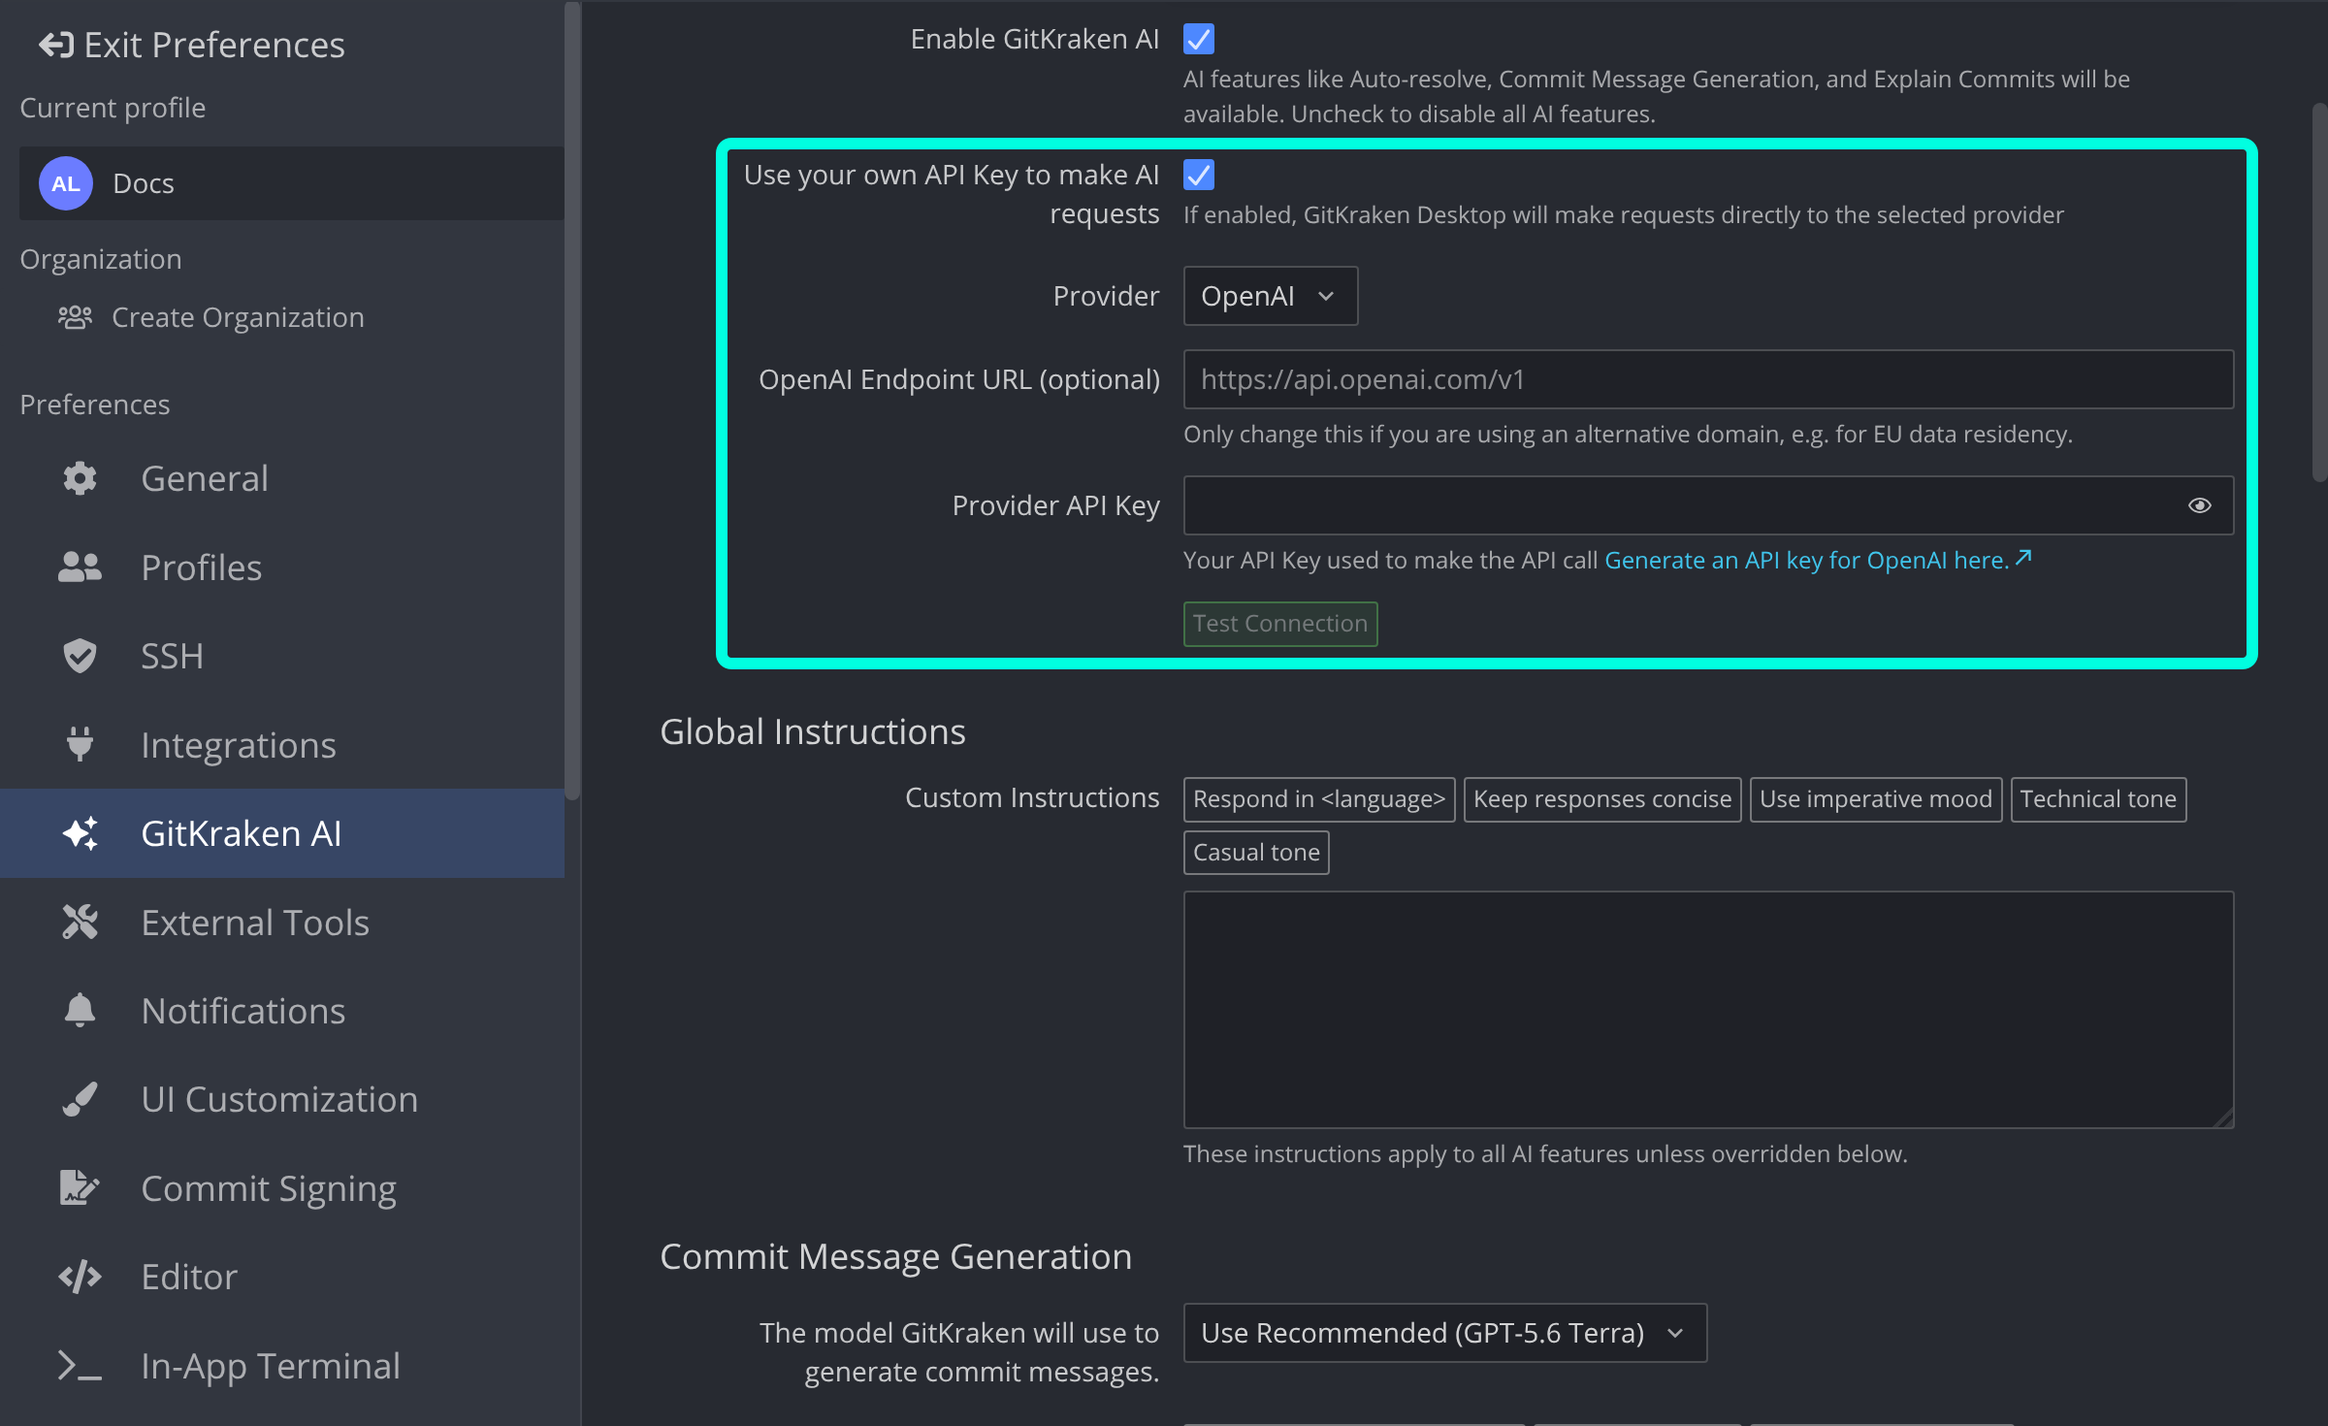
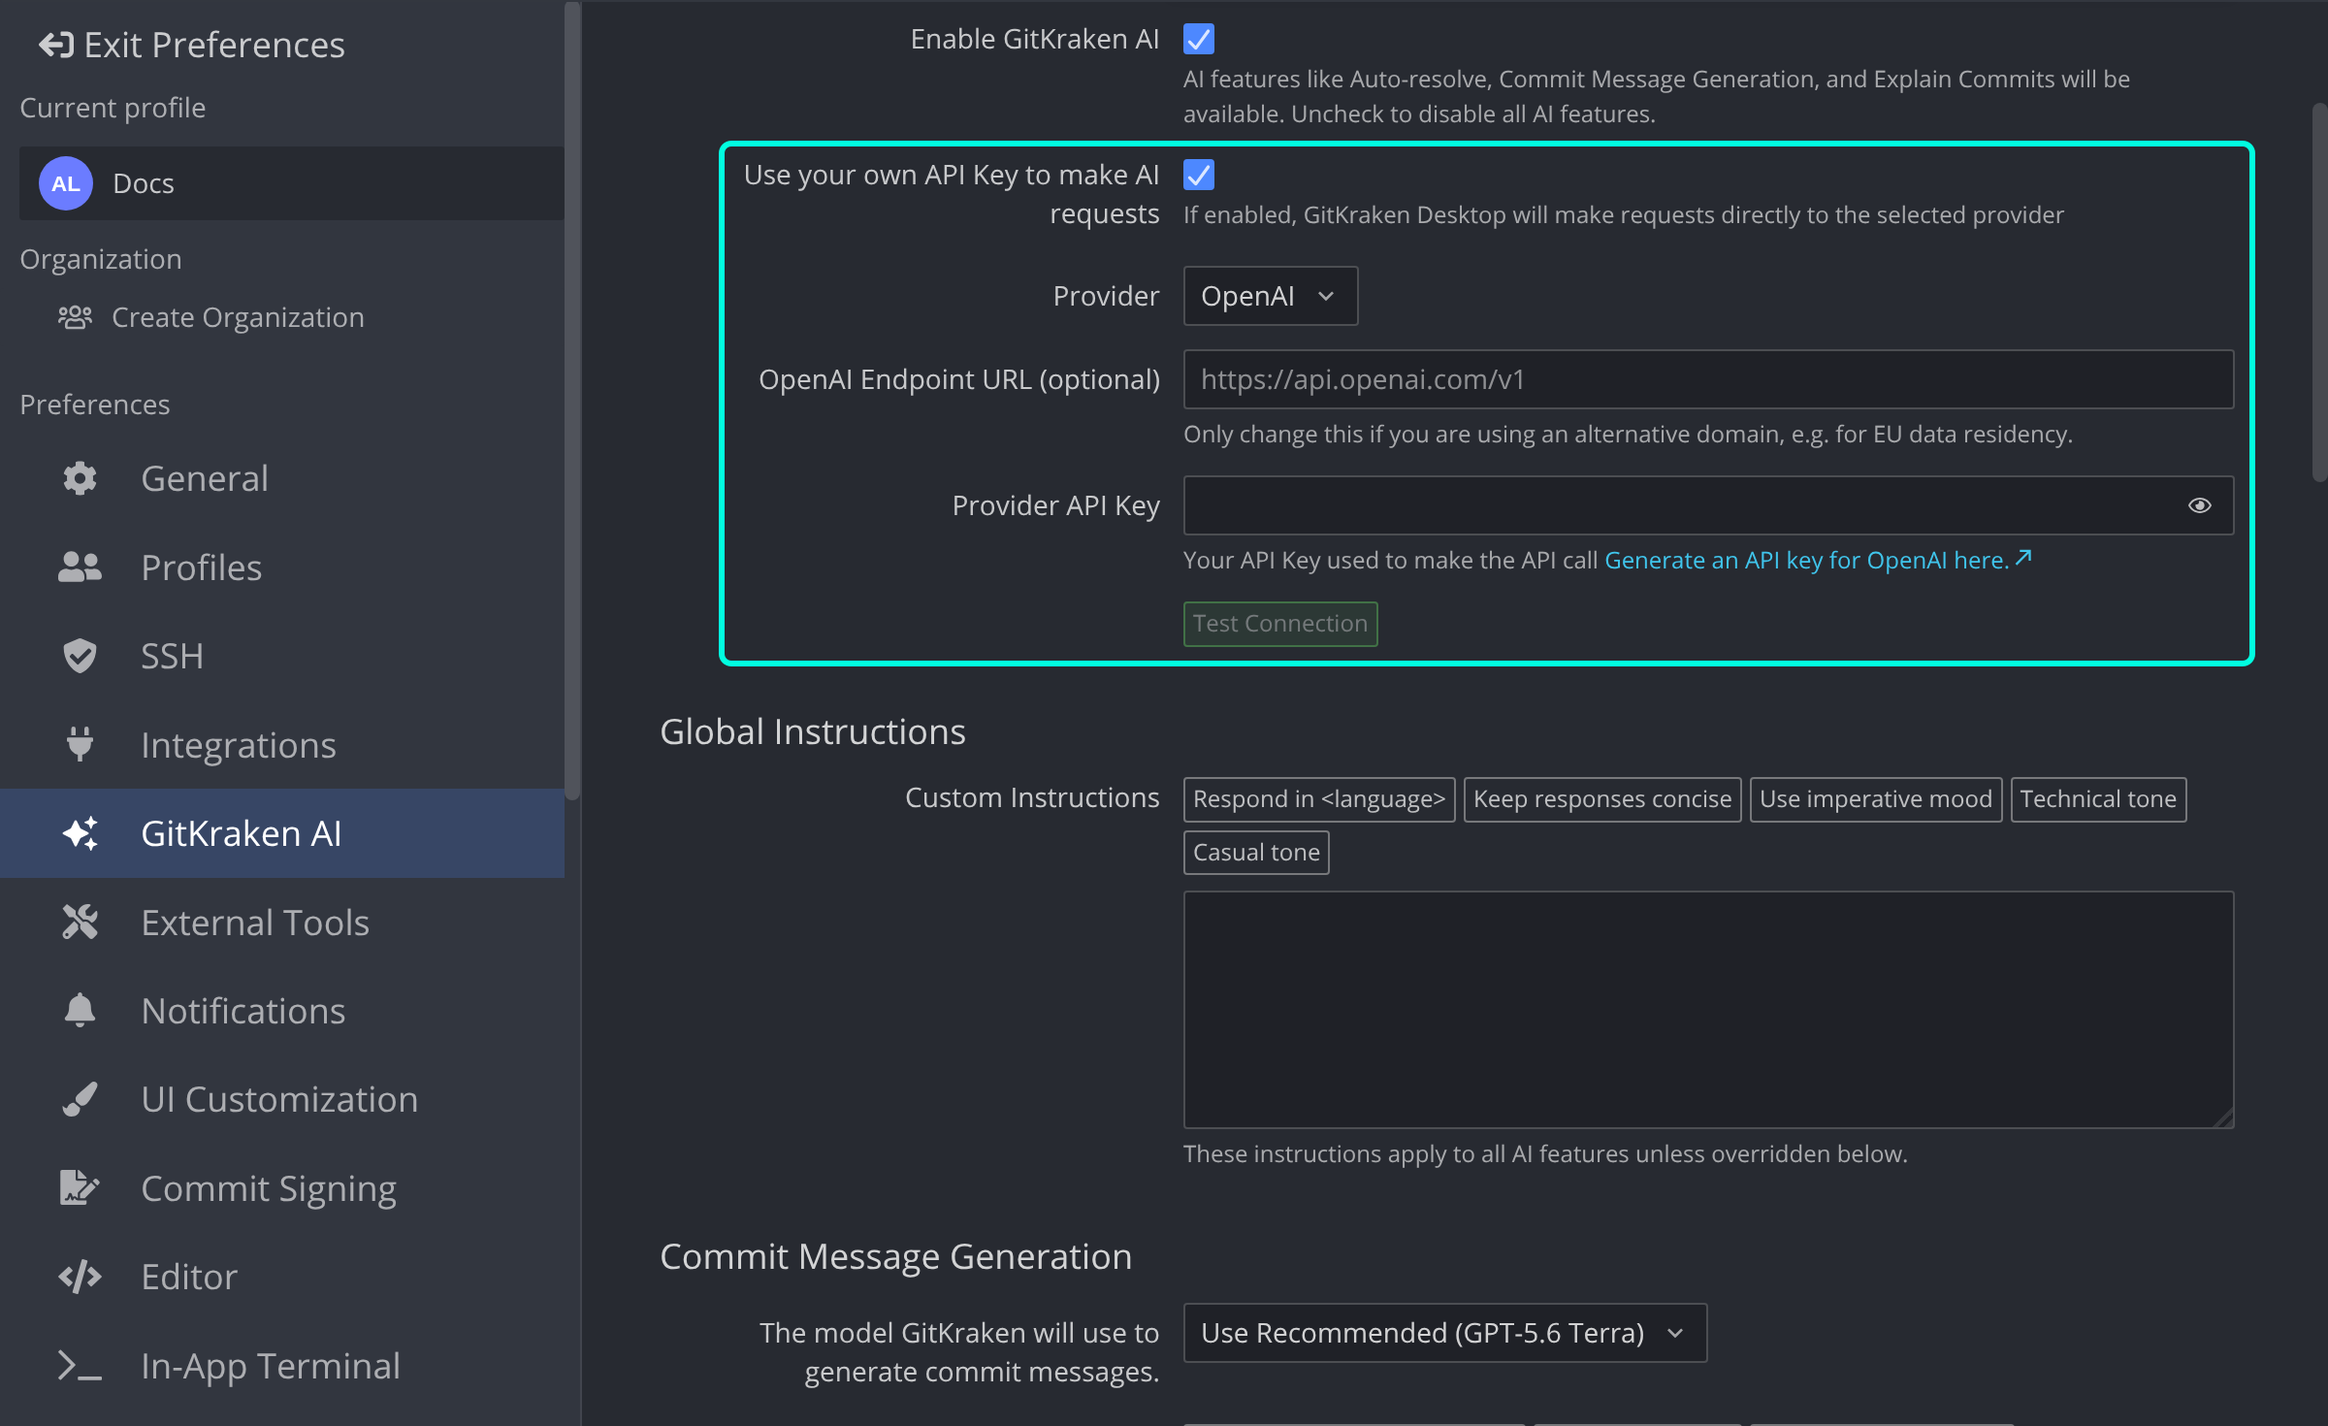
Recapture the annotated figures with 3 px rings that follow each control's corners
Per review: thinner rings (3 px) and corners matching the highlighted control.
The earlier ring restyle had smeared the borders of the controls it sat next to;
these are fresh captures.

Changed region(s): [[0.3125, 0.4592, 0.9688, 0.4898], [0.3125, 0.0918, 0.9688, 0.1224]]

diff --git a/gitkraken-desktop/common-issues.md b/gitkraken-desktop/common-issues.md
@@ -54,7 +54,7 @@ If GitKraken Desktop shows the wrong plan or no AI credits, check which account 
 ### My account shows Trial/Free/Community despite being a paid customer
 In GitKraken Desktop, click your profile icon and check the name and email address under **Account**. If it is the wrong account, click **Sign Out**, then sign in again with the account linked to your subscription:
 <figure class='figure center'>
-  <img alt="The GitKraken Desktop profile and account menu, signed in: Current profile with the profile, commit signature and Manage profiles, then Account with the account name and email, Manage account, and Sign Out highlighted." src="/wp-content/uploads/gkd-profile-menu-sign-out-01-v3@2x.png" class="help-center-img img-bordered">
+  <img alt="The GitKraken Desktop profile and account menu, signed in: Current profile with the profile, commit signature and Manage profiles, then Account with the account name and email, Manage account, and Sign Out highlighted." src="/wp-content/uploads/gkd-profile-menu-sign-out-01-v4@2x.png" class="help-center-img img-bordered">
   <figcaption style="text-align: center; color: #888;">Ensure you are signed in with the email address linked to your subscription. Avoid using GitHub or Google login options if your subscription is tied to an email address.</figcaption>
 </figure>
 

diff --git a/gitkraken-desktop/tips.md b/gitkraken-desktop/tips.md
@@ -112,7 +112,7 @@ Before GitKraken Desktop applies the commits, you can reorder, squash, reword, o
 Connect GitKraken Desktop to [GitHub, GitLab, Bitbucket, and Azure DevOps](/gitkraken-desktop/integrations/) to work with your hosted repositories and pull requests.
 
 <figure class='figure center'>
-  <img src="/wp-content/uploads/connect-azure-devops-2025-v2@2x.png" class="help-center-img img-bordered" alt="Preferences > Integrations > Azure DevOps in GitKraken Desktop: the Azure DevOps card reads Not Connected with a Connect to Azure DevOps button, a Manage Integrations button sits at the top right, and below &quot;or&quot; are Host Domain and Personal Access Token fields with a Connect button.">
+  <img src="/wp-content/uploads/connect-azure-devops-2025-v3@2x.png" class="help-center-img img-bordered" alt="Preferences > Integrations > Azure DevOps in GitKraken Desktop: the Azure DevOps card reads Not Connected with a Connect to Azure DevOps button, a Manage Integrations button sits at the top right, and below &quot;or&quot; are Host Domain and Personal Access Token fields with a Connect button.">
   <figcaption style="text-align: center; color: #888;">Connect your Git provider to speed up repository access.</figcaption>
 </figure>
 

diff --git a/gitkraken-desktop/branching-and-merging.md b/gitkraken-desktop/branching-and-merging.md
@@ -152,7 +152,7 @@ To pin a branch:
 While a branch is pinned, a pin button appears in the **Graph** column header. Click it to jump to and select the pinned branch's latest commit. Hover over the button to see the **Jump to pinned branch** tooltip.
 
 <figure>
-  <img src="/wp-content/uploads/gkd-graph-jump-to-pinned-branch-01-v2@2x.png" class="help-center-img img-bordered" alt="The top of the Commit Graph with a branch pinned to the left: its highlighted label, feature/api…, carries a pin icon and its line is the leftmost in the graph. The highlighted thumbtack button in the GRAPH column header shows the tooltip &quot;Jump to pinned branch&quot;.">
+  <img src="/wp-content/uploads/gkd-graph-jump-to-pinned-branch-01-v3@2x.png" class="help-center-img img-bordered" alt="The top of the Commit Graph with a branch pinned to the left: its highlighted label, feature/api…, carries a pin icon and its line is the leftmost in the graph. The highlighted thumbtack button in the GRAPH column header shows the tooltip &quot;Jump to pinned branch&quot;.">
   <figcaption style="text-align:center; color:#888">Jump to the pinned branch from the Graph column header</figcaption>
 </figure>
 

diff --git a/gitkraken-desktop/faq.md b/gitkraken-desktop/faq.md
@@ -151,7 +151,7 @@ Launch GitKraken Desktop from a terminal to check for missing dependencies. See 
 Make sure you are signed in with the email address associated with your subscription. Click your profile icon and check the email address under **Account**. To use a different account, click **Sign Out**, then sign in with the right account.
 
 <figure class='figure center'>
-  <img src="/wp-content/uploads/gkd-profile-menu-sign-out-01-v3@2x.png" class="help-center-img img-bordered" alt="The GitKraken Desktop profile and account menu, signed in: Current profile with the profile, commit signature and Manage profiles, then Account with the account name and email, Manage account, and Sign Out highlighted.">
+  <img src="/wp-content/uploads/gkd-profile-menu-sign-out-01-v4@2x.png" class="help-center-img img-bordered" alt="The GitKraken Desktop profile and account menu, signed in: Current profile with the profile, commit signature and Manage profiles, then Account with the account name and email, Manage account, and Sign Out highlighted.">
   <figcaption style="text-align: center; color: #888;">Check your account and sign out from the profile menu.</figcaption>
 </figure>
 

diff --git a/gitkraken-desktop/interface.md b/gitkraken-desktop/interface.md
@@ -275,7 +275,7 @@ When you open 2 or more tabs from the same repository, such as the main reposito
 A group ends when fewer than 2 of its tabs are open. To stop grouping worktree tabs, go to <kbd>Preferences > UI Customization</kbd> and clear **Automatically group worktree tabs together**.
 
 <figure class='figure center'>
-    <img alt="The GitKraken Desktop tab bar with a Launchpad tab and a tab group holding the Playground2026 repository tab and its login-form and readme-typo worktree tabs. The dotted group handle on the group's left edge is highlighted." src="/wp-content/uploads/gkd-worktree-tab-groups-01-v2@2x.png" class="help-center-img img-bordered">
+    <img alt="The GitKraken Desktop tab bar with a Launchpad tab and a tab group holding the Playground2026 repository tab and its login-form and readme-typo worktree tabs. The dotted group handle on the group's left edge is highlighted." src="/wp-content/uploads/gkd-worktree-tab-groups-01-v3@2x.png" class="help-center-img img-bordered">
     <figcaption style="text-align: center; color: #888;">Tabs for a repository and its worktrees are grouped together.</figcaption>
 </figure>
 

diff --git a/gitkraken-desktop/azure-devops.md b/gitkraken-desktop/azure-devops.md
@@ -87,7 +87,7 @@ To authenticate with Azure DevOps:
 2. Choose **Azure DevOps** and click <button class='button button--success button--ui button--nolink'>Connect to Azure DevOps</button>.
 
 <figure>
-  <img alt="Preferences > Integrations > Azure DevOps in GitKraken Desktop: the Azure DevOps card reads Not Connected with a Connect to Azure DevOps button, a Manage Integrations button sits at the top right, and below &quot;or&quot; are Host Domain and Personal Access Token fields with a Connect button." src="/wp-content/uploads/connect-azure-devops-2025-v2@2x.png" class="help-center-img img-bordered">
+  <img alt="Preferences > Integrations > Azure DevOps in GitKraken Desktop: the Azure DevOps card reads Not Connected with a Connect to Azure DevOps button, a Manage Integrations button sits at the top right, and below &quot;or&quot; are Host Domain and Personal Access Token fields with a Connect button." src="/wp-content/uploads/connect-azure-devops-2025-v3@2x.png" class="help-center-img img-bordered">
   <figcaption style="color:#888; text-align:center">Connecting to Azure DevOps from GitKraken</figcaption>
 </figure>
 

diff --git a/gitkraken-desktop/gkd-gitkraken-ai.md b/gitkraken-desktop/gkd-gitkraken-ai.md
@@ -173,7 +173,7 @@ GitKraken AI explains in plain language what changed in the commits you select.
 2. Click **Explain commits** (or **Explain commit** for a single commit) in the top-right corner of the Commit Panel.
 
 <figure>
-<img src="/wp-content/uploads/gkd-ai-explain-commits-01-v2@2x.png" style="max-width: 66%; height: auto; margin: 0 auto;" class="help-center-img img-bordered" alt="The Commit Panel in GitKraken Desktop with three consecutive commits selected: the header reads 3 commits selected with an Explain commits button, followed by Viewing diff of 3 commits and the three commits." />
+<img src="/wp-content/uploads/gkd-ai-explain-commits-01-v3@2x.png" style="max-width: 66%; height: auto; margin: 0 auto;" class="help-center-img img-bordered" alt="The Commit Panel in GitKraken Desktop with three consecutive commits selected: the header reads 3 commits selected with an Explain commits button, followed by Viewing diff of 3 commits and the three commits." />
 <figcaption style="text-align: center; color: #888">Use the Explain button to trigger AI-generated summaries</figcaption>
 </figure>
 

diff --git a/gitkraken-desktop/github-issues.md b/gitkraken-desktop/github-issues.md
@@ -80,7 +80,7 @@ You can set up the integration from the ISSUES section in the Left Panel or from
 GitHub connects through your GitKraken account, so sign in to GitKraken Desktop first. In <kbd>Preferences > Integrations</kbd>, select <strong>GitHub</strong> and click <strong>Connect to GitHub</strong>.
 
 <figure>
-  <img src="/wp-content/uploads/connect-github-2025-v2@2x.png" class="help-center-img img-bordered" alt="Preferences > Integrations > GitHub in GitKraken Desktop: the GitHub card reads Not Connected with a Connect to GitHub button, and a Manage Integrations button sits at the top right of the pane.">
+  <img src="/wp-content/uploads/connect-github-2025-v3@2x.png" class="help-center-img img-bordered" alt="Preferences > Integrations > GitHub in GitKraken Desktop: the GitHub card reads Not Connected with a Connect to GitHub button, and a Manage Integrations button sits at the top right of the pane.">
   <figcaption style="text-align: center; color: #888">Connect to GitHub prompt.</figcaption>
 </figure>
 

diff --git a/gitkraken-desktop/gitlab-issues.md b/gitkraken-desktop/gitlab-issues.md
@@ -78,7 +78,7 @@ The GitLab and GitLab Issues integrations share the same connection. Set up the 
 GitLab connects through your GitKraken account, so sign in to GitKraken Desktop first. In <kbd>Preferences > Integrations</kbd>, select <strong>GitLab</strong> and click <strong>Connect to GitLab</strong>.
 
 <figure>
-  <img src="/wp-content/uploads/connect-gitlab-2025-v2@2x.png" class="help-center-img img-bordered" alt="Preferences > Integrations > GitLab in GitKraken Desktop: the GitLab card reads Not Connected with a Connect to GitLab button, and a Manage Integrations button sits at the top right of the pane.">
+  <img src="/wp-content/uploads/connect-gitlab-2025-v3@2x.png" class="help-center-img img-bordered" alt="Preferences > Integrations > GitLab in GitKraken Desktop: the GitLab card reads Not Connected with a Connect to GitLab button, and a Manage Integrations button sits at the top right of the pane.">
   <figcaption style="text-align: center; color: #888">Connect to GitLab prompt.</figcaption>
 </figure>
 

diff --git a/gitkraken-desktop/github-gitkraken-desktop.md b/gitkraken-desktop/github-gitkraken-desktop.md
@@ -116,7 +116,7 @@ To connect your GitHub account manually, first sign in to your GitKraken account
 3. Click <kbd>Connect to GitHub</kbd>. GitKraken Desktop opens your browser to authenticate with GitHub.
 
 <figure>
-    <img alt="Preferences > Integrations > GitHub in GitKraken Desktop: the GitHub card reads Not Connected with a Connect to GitHub button, and a Manage Integrations button sits at the top right of the pane." src="/wp-content/uploads/connect-github-2025-v2@2x.png" class="help-center-img img-bordered" style="max-width: 75%;">
+    <img alt="Preferences > Integrations > GitHub in GitKraken Desktop: the GitHub card reads Not Connected with a Connect to GitHub button, and a Manage Integrations button sits at the top right of the pane." src="/wp-content/uploads/connect-github-2025-v3@2x.png" class="help-center-img img-bordered" style="max-width: 75%;">
     <figcaption style="text-align:center;color:#888">GitHub integration screen</figcaption>
 </figure>
 

diff --git a/gitkraken-desktop/bitbucket.md b/gitkraken-desktop/bitbucket.md
@@ -85,7 +85,7 @@ To authenticate with Bitbucket:
 2. Select <strong>Bitbucket</strong> and click <button class='button button--success button--ui button--nolink'>Connect to Bitbucket</button>.
 
 <figure>
-  <img alt="Preferences > Integrations > Bitbucket in GitKraken Desktop: the Bitbucket card reads Not Connected with a Connect to Bitbucket button, and a Manage Integrations button sits at the top right of the pane." src="/wp-content/uploads/connect-bitbucket-2025-v2@2x.png" class="help-center-img img-bordered">
+  <img alt="Preferences > Integrations > Bitbucket in GitKraken Desktop: the Bitbucket card reads Not Connected with a Connect to Bitbucket button, and a Manage Integrations button sits at the top right of the pane." src="/wp-content/uploads/connect-bitbucket-2025-v3@2x.png" class="help-center-img img-bordered">
   <figcaption style="color:#888; text-align:center">Click to authenticate via Bitbucket</figcaption>
 </figure>
 

diff --git a/gitkraken-desktop/gitlab-gitkraken-desktop.md b/gitkraken-desktop/gitlab-gitkraken-desktop.md
@@ -85,7 +85,7 @@ To authenticate with GitLab:
 2. Select **GitLab** and click <button class='button button--success button--ui button--nolink'>Connect to GitLab</button>.
 
 <figure>
-  <img alt="Preferences > Integrations > GitLab in GitKraken Desktop: the GitLab card reads Not Connected with a Connect to GitLab button, and a Manage Integrations button sits at the top right of the pane." src="/wp-content/uploads/connect-gitlab-2025-v2@2x.png" class="help-center-img img-bordered">
+  <img alt="Preferences > Integrations > GitLab in GitKraken Desktop: the GitLab card reads Not Connected with a Connect to GitLab button, and a Manage Integrations button sits at the top right of the pane." src="/wp-content/uploads/connect-gitlab-2025-v3@2x.png" class="help-center-img img-bordered">
   <figcaption style="color:#888; text-align:center">Click to authenticate GitLab account</figcaption>
 </figure>
 
